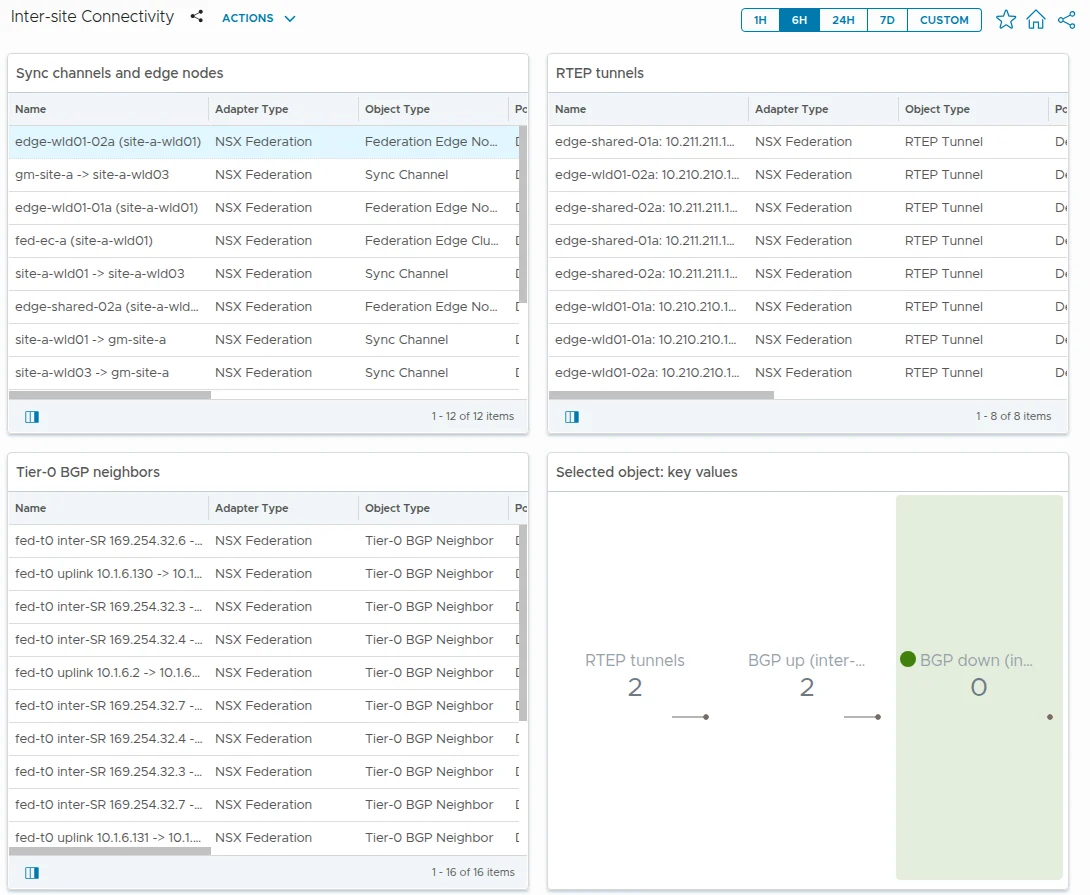
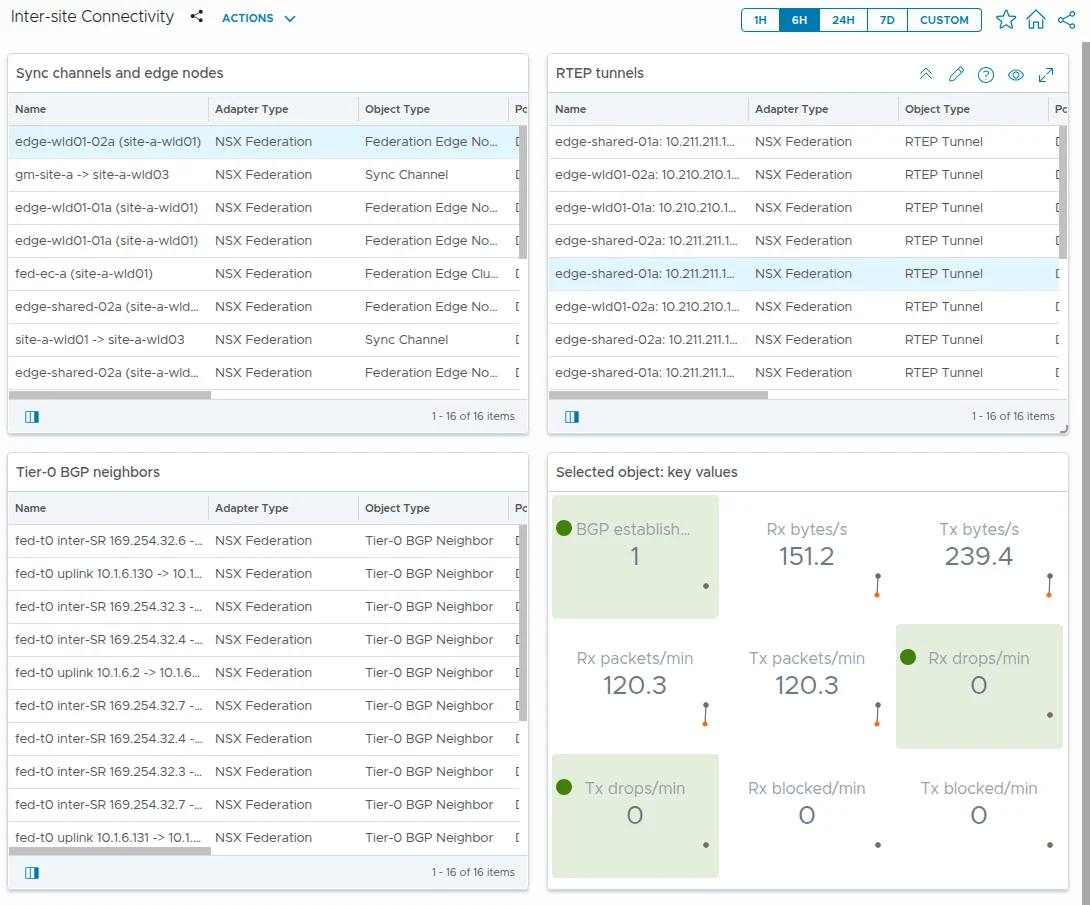
NSX Federation pack part 2: version 1.2.0 (rates, units, new alerts, views), EN/FR
Claude-Session: https://claude.ai/code/session_01SphbqC1vQAcUKnbf7d1FJA

diff --git a/content/posts/nsx-federation-management-pack-install/index.fr.md b/content/posts/nsx-federation-management-pack-install/index.fr.md
@@ -1,8 +1,8 @@
 ---
 title: "Superviser NSX Federation dans VCF Operations, partie 2 : construction, installation et données collectées par le pack"
 date: 2026-11-18
-description: "Partie 2 du management pack NSX Federation pour VCF Operations 9.1.1 : l'adaptateur construit avec l'Integration SDK, les trois obstacles qui séparent un fichier .pak d'un collecteur opérationnel (pack non signé, registre à servir en HTTPS, certificat non approuvé), les 65 objets, 312 métriques et quatre alertes que le pack produit sur une fédération de lab à deux emplacements, les 22 définitions d'alerte et les trois tableaux de bord ajoutés en version 1.1, et la marche à suivre pour envoyer les alertes par e-mail."
-summary: "L'adaptateur collecte une NSX Federation 9.1 à deux emplacements en 12 secondes et 60 appels d'API. Pour le faire fonctionner dans VCF Operations 9.1.1, il a fallu trois corrections : autoriser un pack non signé, servir le registre d'images en HTTPS et faire approuver le certificat du registre par le proxy cloud. Cet article détaille chaque étape et liste ce que le pack collecte. Il présente aussi les définitions d'alerte et les tableaux de bord de la version 1.1, ainsi que l'envoi des alertes par e-mail."
+description: "Partie 2 du management pack NSX Federation pour VCF Operations 9.1.1 : l'adaptateur construit avec l'Integration SDK, les trois obstacles qui séparent un fichier .pak d'un collecteur opérationnel (pack non signé, registre à servir en HTTPS, certificat non approuvé), les 65 objets, 312 métriques et quatre alertes que le pack produit sur une fédération de lab à deux emplacements, les définitions d'alerte, les tableaux de bord et les vues ajoutés dans les versions 1.1 et 1.2, et la marche à suivre pour envoyer les alertes par e-mail."
+summary: "L'adaptateur collecte une NSX Federation 9.1 à deux emplacements en 12 secondes et 60 appels d'API. Pour le faire fonctionner dans VCF Operations 9.1.1, il a fallu trois corrections : autoriser un pack non signé, servir le registre d'images en HTTPS et faire approuver le certificat du registre par le proxy cloud. Cet article détaille chaque étape et liste ce que le pack collecte. Il présente aussi les définitions d'alerte, les tableaux de bord et les vues des versions 1.1 et 1.2, ainsi que l'envoi des alertes par e-mail."
 tags: ["VCF 9.1.1", "NSX Federation", "VCF Operations", "Management pack", "Integration SDK", "Holodeck"]
 categories: ["Notes"]
 showToc: true
@@ -263,7 +263,7 @@ Tous fonctionnent sur le même principe : une liste alimente un widget « Scor
 
 ![Le tableau de bord Federation Overview : les quatre alertes ouvertes, regroupées sous trois définitions, la liste des objets de la fédération avec gm-site-a sélectionné, ses valeurs clés, ses objets associés et ses propriétés](/images/nsx-federation-mp/ops-dashboard-overview.webp)
 
-![Le tableau de bord Inter-site Connectivity : canaux de synchronisation et nœuds Edge, tunnels RTEP, voisins BGP du Tier-0 et valeurs clés du nœud Edge sélectionné](/images/nsx-federation-mp/ops-dashboard-connectivity.webp)
+![Le tableau de bord Inter-site Connectivity : canaux de synchronisation et nœuds Edge, tunnels RTEP, voisins BGP du Tier-0 et, à partir de la version 1.2.0, les taux du tunnel RTEP sélectionné](/images/nsx-federation-mp/ops-dashboard-connectivity.webp)
 
 ![Le tableau de bord Stretched Objects : les passerelles, segments et stratégies étendus, la réalisation par emplacement, ainsi que les valeurs clés, les propriétés et les objets associés du segment fed-stretched](/images/nsx-federation-mp/ops-dashboard-stretched.webp)
 
@@ -276,7 +276,35 @@ Deux comportements ont fait perdre du temps :
 
 ### Couverture par type d'objet
 
-Chaque type d'objet du pack a été comparé à l'intégration NSX native (50 types d'objets, 423 définitions d'alerte). Le résultat, type par type :
+Chaque type d'objet du pack a été comparé à l'intégration NSX native (50 types d'objets, 423 définitions d'alerte). Avec la version 1.1.1, cette comparaison a fait apparaître les lacunes suivantes :
+
+- **Tunnel RTEP.** Un tunnel dont la session BGP était tombée déclenchait l'alerte de son nœud Edge. Le tunnel lui-même n'avait pas d'alerte, pas plus que les paquets rejetés ou bloqués.
+- **Les compteurs sont des cumuls.** Paquets, octets, rejets et correspondances de règles étaient les totaux cumulés que renvoie NSX. Sans taux, aucun seuil ne pouvait porter sur les rejets par minute.
+- **Cluster Edge.** L'état intersite du cluster était une propriété sans alerte.
+- **Objets étendus en erreur.** La métrique « emplacements en erreur » n'avait pas d'alerte.
+- **Alarmes du Global Manager.** Le pack comptait les alarmes ouvertes du Global Manager et ne relayait sous forme d'événements que celles des Local Managers.
+- **Unités.** Aucune métrique ne déclarait d'unité.
+- **Vues, rapports et arborescence d'inventaire.** Le pack n'en contenait aucun.
+
+## Version 1.2 : combler les lacunes
+
+La version 1.2.0 reprend chacun de ces points. Elle s'est installée de la même façon que les versions précédentes.
+
+| Lacune | Apport de la version 1.2.0 |
+| --- | --- |
+| Les compteurs sont des cumuls | L'adaptateur conserve les compteurs du cycle précédent et ajoute des taux : paquets, rejets et paquets bloqués par minute et octets par seconde sur les tunnels RTEP, correspondances de règles par minute sur les stratégies, les réalisations et les règles |
+| Tunnel RTEP | Deux alertes : session BGP intersite tombée sur le tunnel, et plus de 60 paquets rejetés par minute dans un sens |
+| Cluster Edge | Une alerte lorsque l'état intersite n'est pas UP |
+| Objets étendus en erreur | Une alerte pour chacun des types Tier-0, Tier-1, segment et stratégie de sécurité globale |
+| Alarmes du Global Manager | Les alarmes de fédération et toutes les alarmes critiques du Global Manager arrivent sous forme d'événements |
+| Unités | Heures, jours, secondes, octets, paquets et taux par minute sont déclarés |
+| Vues et rapports | Cinq vues de type liste et un rapport |
+| Objets remplacés | Un nœud Edge et ses tunnels sont identifiés par l'emplacement et le nom du nœud : un nœud Edge redéployé conserve ainsi son objet et son historique |
+| Liens vers l'intégration NSX | Une option de l'instance d'adaptateur, désactivée par défaut, relie chaque nœud Edge et chaque cluster Edge à l'objet correspondant de l'intégration NSX native |
+
+Deux alertes existantes ont changé dans la même version. L'alerte du nœud Edge ne se déclenche plus que lorsque le nœud a perdu toutes ses sessions intersites, car la perte d'une seule session déclenche l'alerte du tunnel. L'alerte « Stretched object is not realized at a location » est passée d'Immediate à Warning, puisque les nouvelles alertes d'erreur sur l'objet sont de niveau Immediate.
+
+Le pack compte désormais 29 définitions d'alerte, 42 symptômes et 20 recommandations, et envoie 398 métriques par cycle dans le lab une fois les taux disponibles. Un taux se calcule sur deux cycles et apparaît donc un cycle après les autres métriques.
 
 | Type d'objet | Métriques | Définitions d'alerte | Tableau de bord |
 | --- | --- | --- | --- |
@@ -285,24 +313,28 @@ Chaque type d'objet du pack a été comparé à l'intégration NSX native (50 ty
 | Nœud de Global Manager | 1 | Aucune, le nœud est couvert par l'alerte de cluster du Global Manager | Objets associés uniquement |
 | Emplacement | 14 | 9 | Federation Overview |
 | Canal de synchronisation | 1 | 1 | Inter-site Connectivity |
-| Cluster Edge | 4 | Aucune | Inter-site Connectivity |
+| Cluster Edge | 4 | 1 | Inter-site Connectivity |
 | Nœud Edge | 4 | 1 | Inter-site Connectivity |
-| Tunnel RTEP | 9 | Aucune | Inter-site Connectivity |
+| Tunnel RTEP | 17 | 2 | Inter-site Connectivity |
 | Voisin BGP du Tier-0 | 7 | 2 | Inter-site Connectivity |
-| Tier-0, Tier-1 et segment étendus | 4 chacun | Aucune, ces objets sont couverts par l'alerte de réalisation | Stretched Objects |
-| Stratégie de sécurité globale | 7 | Aucune, la stratégie est couverte par l'alerte de réalisation | Stretched Objects |
-| Objet étendu sur un emplacement | 5 | 1 | Stretched Objects |
-| Règle de pare-feu globale (optionnelle) | 4 | Aucune | Aucun |
+| Tier-0, Tier-1 et segment étendus | 4 chacun | 1 chacun | Stretched Objects |
+| Stratégie de sécurité globale | 8 | 1 | Stretched Objects |
+| Objet étendu sur un emplacement | 6 | 1 | Stretched Objects |
+| Règle de pare-feu globale (optionnelle) | 5 | Aucune | Aucun |
 
-Cette comparaison a fait apparaître les lacunes suivantes :
+Après l'installation, l'adaptateur a collecté les mêmes 65 objets et les quatre mêmes alertes se sont déclenchées. Aucune des sept nouvelles alertes ne s'est déclenchée. C'est le comportement attendu dans un lab sain, ce qui les laisse non testées.
 
-- **Tunnel RTEP.** Un tunnel dont la session BGP est tombée déclenche l'alerte de son nœud Edge. Le tunnel lui-même n'a pas d'alerte, pas plus que les paquets rejetés ou bloqués.
-- **Les compteurs sont des cumuls.** Paquets, octets, rejets et correspondances de règles sont les totaux cumulés que renvoie NSX. Le pack ne calcule aucun taux : un seuil sur les rejets par minute n'est donc pas encore possible.
-- **Cluster Edge.** L'état intersite du cluster est une propriété sans alerte.
-- **Objets étendus en erreur.** La métrique « emplacements en erreur » n'a pas d'alerte. Un objet en échec sur un emplacement ne déclenche que l'alerte de la réalisation concernée.
-- **Alarmes du Global Manager.** Le pack compte les alarmes ouvertes du Global Manager, et ne relaie sous forme d'événements que celles des Local Managers.
-- **Unités.** Aucune métrique ne déclare d'unité : heures, jours, octets et paquets s'affichent comme de simples nombres.
-- **Vues, rapports et super métriques.** Le pack n'en contient aucun.
+### Vues et rapport
+
+Les cinq vues de type liste couvrent les emplacements, les canaux de synchronisation, les tunnels RTEP, les voisins BGP du Tier-0 et la réalisation des objets étendus par emplacement. Un rapport, « NSX Federation - Health report », les réunit dans un même PDF. Une vue est un fichier XML. Un script le génère, comme pour les alertes et les tableaux de bord, et l'API Suite peut l'importer pour un essai avant de construire le pack.
+
+![La vue de type liste « NSX Federation - Locations » : les deux emplacements avec leur version, la connexion au Global Manager, la joignabilité depuis le collecteur, les sessions BGP intersites et les échecs de synchronisation complète](/images/nsx-federation-mp/ops-view-locations.webp)
+
+### Ce qu'a montré la mise à niveau vers la version 1.2.0
+
+- **La nouvelle identité a créé de nouveaux objets.** Après le changement d'identité, VCF Operations a recréé les quatre nœuds Edge et les huit tunnels. Les douze anciens objets restent dans l'inventaire, sans données, jusqu'à leur suppression, comme les 26 laissés par le remplacement des nœuds Edge.
+- **L'arborescence d'inventaire ne s'est pas chargée.** Le pack contient une traversal specification dont la racine est l'objet fédération. Pour ce contenu, le journal d'installation indique `Traversal specs root tag should be "AdapterKind"`. Le fichier est valide au regard du schéma du SDK et porte bien cette balise racine. La cause reste inconnue, et la présence de l'arborescence dans l'interface n'a pas été confirmée.
+- **L'option des packs non signés ne peut pas être désactivée pendant l'installation.** La console d'administration a répondu `Cluster is in PAK installing state` jusqu'à la fin de l'installation. Un script doit donc réessayer.
 
 ## Envoyer les alertes par e-mail
 
@@ -336,20 +368,19 @@ Une règle portant sur les types d'objets du pack et limitée à Immediate et Cr
 
 ## Ce qui manque encore
 
-- Une arborescence d'inventaire (traversal specification).
-- Les lacunes relevées dans la couverture : des alertes pour les tunnels RTEP, les clusters Edge, les objets étendus en erreur et les alarmes du Global Manager, des taux pour les compteurs, et des unités sur les métriques.
+- Une arborescence d'inventaire fonctionnelle. La traversal specification de la version 1.2.0 ne s'est pas chargée.
+- Des super métriques.
 - Un test de la notification par e-mail, qui exige un serveur de messagerie absent du lab.
-- Les tests de 18 des 22 définitions d'alerte, qui exigent des pannes que le lab ne présente pas.
-- Le nettoyage des objets remplacés. Un nœud Edge redéployé reçoit un nouvel identifiant dans NSX et devient un nouvel objet. Après le remplacement des nœuds Edge, 26 anciens objets (nœuds Edge et tunnels) sont restés dans l'inventaire, sans données, à côté des 65 objets actifs.
+- Les tests de 25 des 29 définitions d'alerte, qui exigent des pannes que le lab ne présente pas. Le rapport et l'option des liens vers l'intégration NSX ne sont pas testés non plus.
+- La suppression des 38 anciens objets laissés par le remplacement des nœuds Edge et par le changement d'identité de la version 1.2.0.
 - La latence entre managers. NSX la mesure et l'affiche dans son interface ; l'API qui la fournit n'a pas été trouvée.
 - L'état du pare-feu sur les hôtes, second point resté ouvert dans la partie 1.
-- Les liens vers les objets de l'intégration NSX native.
 - Les tests d'un Global Manager de secours, d'un basculement et d'un split-brain. Le lab n'a qu'un seul Global Manager.
 - Un pack signé. Chaque nouvelle version impose d'activer l'option des packs non signés.
 
 ## Sources
 
-- Lab : Holodeck VCF 9.1.1 imbriqué, NSX 9.1.1.0 (Local Managers) et 9.1.1.0100 (Global Manager), VCF Operations 9.1.1.0 build 25795063. Construction et installation les 17 et 18 novembre 2026 ; versions 1.0.1, 1.1.0 et 1.1.1 le 18 novembre.
+- Lab : Holodeck VCF 9.1.1 imbriqué, NSX 9.1.1.0 (Local Managers) et 9.1.1.0100 (Global Manager), VCF Operations 9.1.1.0 build 25795063. Construction et installation les 17 et 18 novembre 2026 ; versions 1.0.1, 1.1.0, 1.1.1 et 1.2.0 le 18 novembre.
 - [VCF Operations Integration SDK](https://vmware.github.io/vmware-vcf-operations-integration-sdk/introduction)
 - KB Broadcom [415279](https://knowledge.broadcom.com/external/article/415279/error-no-signature-found-on-pak-file-wh.html) : « No signature found on PAK file » lors de l'installation d'un management pack
 - [Docker : verify repository client with certificates](https://docs.docker.com/engine/security/certificates/)

diff --git a/content/posts/nsx-federation-management-pack-install/index.md b/content/posts/nsx-federation-management-pack-install/index.md
@@ -1,8 +1,8 @@
 ---
 title: "Monitoring NSX Federation in VCF Operations, part 2: building, installing and what the pack captures"
 date: 2026-11-18
-description: "Part 2 of the NSX Federation management pack for VCF Operations 9.1.1: the adapter built with the Integration SDK, the three obstacles between a .pak file and a running collector (unsigned pack, HTTPS-only registry, untrusted certificate), the 65 objects, 312 metrics and four alerts the pack produces on a two-location lab federation, the 22 alert definitions and three dashboards added in version 1.1, and the steps to send the alerts by email."
-summary: "The adapter collects a two-location NSX 9.1 Federation in 12 seconds and 60 API calls. Getting it to run inside VCF Operations 9.1.1 took three fixes: allowing an unsigned pack, serving the image registry over HTTPS, and making the cloud proxy trust the registry certificate. This post documents each step and lists what the pack captures. It also covers the alert definitions and dashboards of version 1.1 and how to send the alerts by email."
+description: "Part 2 of the NSX Federation management pack for VCF Operations 9.1.1: the adapter built with the Integration SDK, the three obstacles between a .pak file and a running collector (unsigned pack, HTTPS-only registry, untrusted certificate), the 65 objects, 312 metrics and four alerts the pack produces on a two-location lab federation, the alert definitions, dashboards and views added in versions 1.1 and 1.2, and the steps to send the alerts by email."
+summary: "The adapter collects a two-location NSX 9.1 Federation in 12 seconds and 60 API calls. Getting it to run inside VCF Operations 9.1.1 took three fixes: allowing an unsigned pack, serving the image registry over HTTPS, and making the cloud proxy trust the registry certificate. This post documents each step and lists what the pack captures. It also covers the alert definitions, dashboards and views of versions 1.1 and 1.2, and how to send the alerts by email."
 tags: ["VCF 9.1.1", "NSX Federation", "VCF Operations", "Management pack", "Integration SDK", "Holodeck"]
 categories: ["Field notes"]
 showToc: true
@@ -263,7 +263,7 @@ Every dashboard works the same way: a list drives a scoreboard, and a click on a
 
 ![The Federation Overview dashboard: the four open alerts grouped under three definitions, the list of federation objects with gm-site-a selected, its key values, related objects and properties](/images/nsx-federation-mp/ops-dashboard-overview.webp)
 
-![The Inter-site Connectivity dashboard: sync channels and edge nodes, RTEP tunnels, Tier-0 BGP neighbors and the key values of the selected edge node](/images/nsx-federation-mp/ops-dashboard-connectivity.webp)
+![The Inter-site Connectivity dashboard: sync channels and edge nodes, RTEP tunnels, Tier-0 BGP neighbors and, with version 1.2.0, the rates of the selected RTEP tunnel](/images/nsx-federation-mp/ops-dashboard-connectivity.webp)
 
 ![The Stretched Objects dashboard: the stretched gateways, segments and policies, the realization per location, and the key values, properties and related objects of segment fed-stretched](/images/nsx-federation-mp/ops-dashboard-stretched.webp)
 
@@ -276,7 +276,35 @@ Two behaviours cost time:
 
 ### Coverage by object type
 
-Each object type of the pack was compared with the built-in NSX integration (50 object types, 423 alert definitions). The result per type:
+Each object type of the pack was compared with the built-in NSX integration (50 object types, 423 alert definitions). With version 1.1.1 the review found these gaps:
+
+- **RTEP tunnel.** A tunnel whose BGP session is down raised the alert of its edge node. The tunnel itself had no alert, and neither did dropped or blocked packets.
+- **Counters are totals.** Packets, bytes, drops and rule hits were the running totals NSX returns. Without a rate, a threshold on drops per minute was not possible.
+- **Edge cluster.** The inter-site status of the cluster was a property with no alert.
+- **Stretched objects in error.** The "locations in error" metric had no alert.
+- **Global Manager alarms.** The pack counted the open alarms of the Global Manager and forwarded only those of the Local Managers as events.
+- **Units.** No metric declared a unit.
+- **Views, reports and an inventory tree.** The pack shipped none.
+
+## Version 1.2: closing the gaps
+
+Version 1.2.0 addresses that list. It was installed the same way as the earlier versions.
+
+| Gap | What version 1.2.0 does |
+| --- | --- |
+| Counters are totals | The adapter keeps the counters of the previous cycle and adds rates: packets, drops and blocked packets per minute and bytes per second on RTEP tunnels, rule hits per minute on policies, realizations and rules |
+| RTEP tunnel | Two alerts: inter-site BGP session down on the tunnel, and more than 60 dropped packets per minute in one direction |
+| Edge cluster | An alert when the inter-site status is not UP |
+| Stretched objects in error | One alert each for Tier-0, Tier-1, segment and global security policy |
+| Global Manager alarms | The federation alarms and every critical alarm of the Global Manager arrive as events |
+| Units | Hours, days, seconds, bytes, packets and per-minute rates are declared |
+| Views and reports | Five list views and one report |
+| Replaced objects | An edge node and its tunnels are identified by location and node name, so a redeployed edge keeps its object and its history |
+| Links to the NSX integration | An option on the adapter instance, off by default, links each edge node and edge cluster to the object of the built-in NSX integration |
+
+Two existing alerts changed in the same version. The edge node alert now fires only when the node has lost all its inter-site sessions, because a single session raises the tunnel alert. "Stretched object is not realized at a location" went from Immediate to Warning, because the new error alerts on the object are Immediate.
+
+The pack now has 29 alert definitions, 42 symptoms and 20 recommendations, and sends 398 metrics per cycle in the lab once the rates are available. Rates need two cycles, so they appear one cycle after the other metrics.
 
 | Object type | Metrics | Alert definitions | Dashboard |
 | --- | --- | --- | --- |
@@ -285,24 +313,28 @@ Each object type of the pack was compared with the built-in NSX integration (50 
 | Global Manager node | 1 | None, covered by the cluster alert of the Global Manager | Related objects only |
 | Location | 14 | 9 | Federation Overview |
 | Sync channel | 1 | 1 | Inter-site Connectivity |
-| Edge cluster | 4 | None | Inter-site Connectivity |
+| Edge cluster | 4 | 1 | Inter-site Connectivity |
 | Edge node | 4 | 1 | Inter-site Connectivity |
-| RTEP tunnel | 9 | None | Inter-site Connectivity |
+| RTEP tunnel | 17 | 2 | Inter-site Connectivity |
 | Tier-0 BGP neighbor | 7 | 2 | Inter-site Connectivity |
-| Stretched Tier-0, Tier-1, segment | 4 each | None, covered by the realization alert | Stretched Objects |
-| Global security policy | 7 | None, covered by the realization alert | Stretched Objects |
-| Stretched object at a location | 5 | 1 | Stretched Objects |
-| Global firewall rule (opt-in) | 4 | None | None |
+| Stretched Tier-0, Tier-1, segment | 4 each | 1 each | Stretched Objects |
+| Global security policy | 8 | 1 | Stretched Objects |
+| Stretched object at a location | 6 | 1 | Stretched Objects |
+| Global firewall rule (opt-in) | 5 | None | None |
 
-The review found these gaps:
+After the install the adapter collected the same 65 objects and the same four alerts fired. None of the seven new alerts fired. That is correct for a healthy lab, and it leaves them untested.
 
-- **RTEP tunnel.** A tunnel whose BGP session is down raises the alert of its edge node. The tunnel itself has no alert, and neither do dropped or blocked packets.
-- **Counters are totals.** Packets, bytes, drops and rule hits are the running totals NSX returns. The pack computes no rate, so a threshold on drops per minute is not possible yet.
-- **Edge cluster.** The inter-site status of the cluster is a property with no alert.
-- **Stretched objects in error.** The "locations in error" metric has no alert. An object that fails at a location only raises the alert of that realization.
-- **Global Manager alarms.** The pack counts the open alarms of the Global Manager and forwards only those of the Local Managers as events.
-- **Units.** No metric declares a unit, so hours, days, bytes and packets show as plain numbers.
-- **Views, reports and super metrics.** The pack ships none.
+### Views and a report
+
+The five list views cover locations, sync channels, RTEP tunnels, Tier-0 BGP neighbors and the realization of stretched objects per location. A report, "NSX Federation - Health report", puts them in one PDF. A view is an XML file. A script generates it, as for the alerts and the dashboards, and the suite API can import it for a test before a pack build.
+
+![The list view "NSX Federation - Locations": both locations with version, connection to the Global Manager, collector reachability, inter-site BGP sessions and full sync failures](/images/nsx-federation-mp/ops-view-locations.webp)
+
+### What the upgrade to 1.2.0 showed
+
+- **The new identity created new objects.** After the change of identity, VCF Operations created the four edge nodes and eight tunnels again. The twelve old objects stay in the inventory without data, like the 26 left by the edge replacement, until they are deleted.
+- **The inventory tree did not load.** The pack ships a traversal specification rooted at the federation object. The install logged `Traversal specs root tag should be "AdapterKind"` for that content. The file validates against the SDK schema and has that root tag. The cause is not known, and the tree has not been confirmed in the UI.
+- **The unsigned-pack switch cannot be turned off during the install.** The admin console answered `Cluster is in PAK installing state` until the install had finished. A script has to retry.
 
 ## Sending the alerts by email
 
@@ -336,20 +368,19 @@ A rule on the pack's object types, limited to Immediate and Critical, sends the 
 
 ## What is not there yet
 
-- An inventory tree (traversal specification).
-- The gaps listed under coverage: alerts for RTEP tunnels, edge clusters, stretched objects in error and Global Manager alarms, rates for the counters, and units on the metrics.
+- A working inventory tree. The traversal specification of version 1.2.0 did not load.
+- Super metrics.
 - A test of the email notification, which needs a mail server the lab does not have.
-- Tests for 18 of the 22 alert definitions, which need faults the lab does not have.
-- Clean-up of replaced objects. An edge node that is redeployed gets a new ID in NSX and becomes a new object. After the edge replacement, 26 old edge node and tunnel objects stayed in the inventory without data, next to the 65 live ones.
+- Tests for 25 of the 29 alert definitions, which need faults the lab does not have. The report and the option that links to the NSX integration are untested too.
+- Removal of the 38 old objects left by the edge replacement and by the change of identity in version 1.2.0.
 - Latency between managers. NSX measures it and shows it in its UI; the API that carries it was not found.
 - The firewall state of the hosts, the second open item from part 1.
-- Links to the objects of the built-in NSX integration.
 - Tests for a standby Global Manager, a switchover and split-brain. The lab has a single Global Manager.
 - A signed pack. Every new version needs the unsigned-pack switch.
 
 ## Sources
 
-- Lab: nested VCF 9.1.1 Holodeck, NSX 9.1.1.0 (Local Managers) and 9.1.1.0100 (Global Manager), VCF Operations 9.1.1.0 build 25795063. Build and install on 17 and 18 November 2026, versions 1.0.1, 1.1.0 and 1.1.1 on 18 November.
+- Lab: nested VCF 9.1.1 Holodeck, NSX 9.1.1.0 (Local Managers) and 9.1.1.0100 (Global Manager), VCF Operations 9.1.1.0 build 25795063. Build and install on 17 and 18 November 2026, versions 1.0.1, 1.1.0, 1.1.1 and 1.2.0 on 18 November.
 - [VCF Operations Integration SDK](https://vmware.github.io/vmware-vcf-operations-integration-sdk/introduction)
 - Broadcom KB [415279](https://knowledge.broadcom.com/external/article/415279/error-no-signature-found-on-pak-file-wh.html): "No signature found on PAK file" while installing a management pack
 - [Docker: verify repository client with certificates](https://docs.docker.com/engine/security/certificates/)
